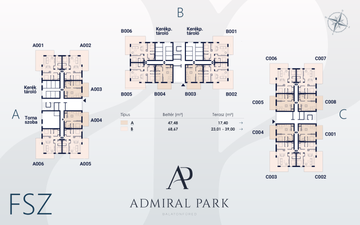
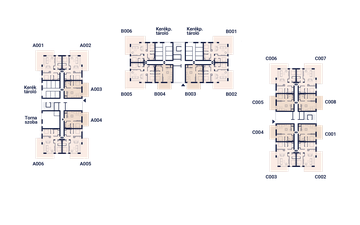
Use transparent native floor layouts for apartment list

diff --git a/assets/apartment-list/README.md b/assets/apartment-list/README.md
@@ -13,7 +13,7 @@ media-manifest.json       Exact apartment-to-type mapping and file hashes
 
 Plan images are type illustrations. They do not establish the precise mirrored arrangement or terrace variant of every apartment. The official type workbook maps all 69 apartment IDs; building letters and type letters remain separate. Each floor layout contains buildings A, B and C together.
 
-Original PNG copies retain their source bytes. Full WebP plan images preserve their decoded pixels and alpha, while thumbnails are separate smaller files. Floor layouts are rendered from the latest supplied customer book (r05) at 3600 × 2250. The ten one-page PDFs preserve the matching type pages from that book. The corrected C entry image is used.
+Original PNG copies retain their source bytes. Full WebP plan images preserve their decoded pixels and alpha, while thumbnails are separate smaller files. Floor layouts use the supplied native transparent plan artwork at 2560 × 1600, preserving the full canvas, apartment labels and linework used in the latest customer book. The ten one-page PDFs preserve the matching type pages from the current customer book (r05). The corrected C entry image is used.
 
 The manifest uses application-relative `assets/` paths. When resolving against this directory, remove that prefix: `assets/floorplans/types/B/full.webp` becomes `floorplans/types/B/full.webp`. The Framer component's Asset folder control performs this resolution.
 
